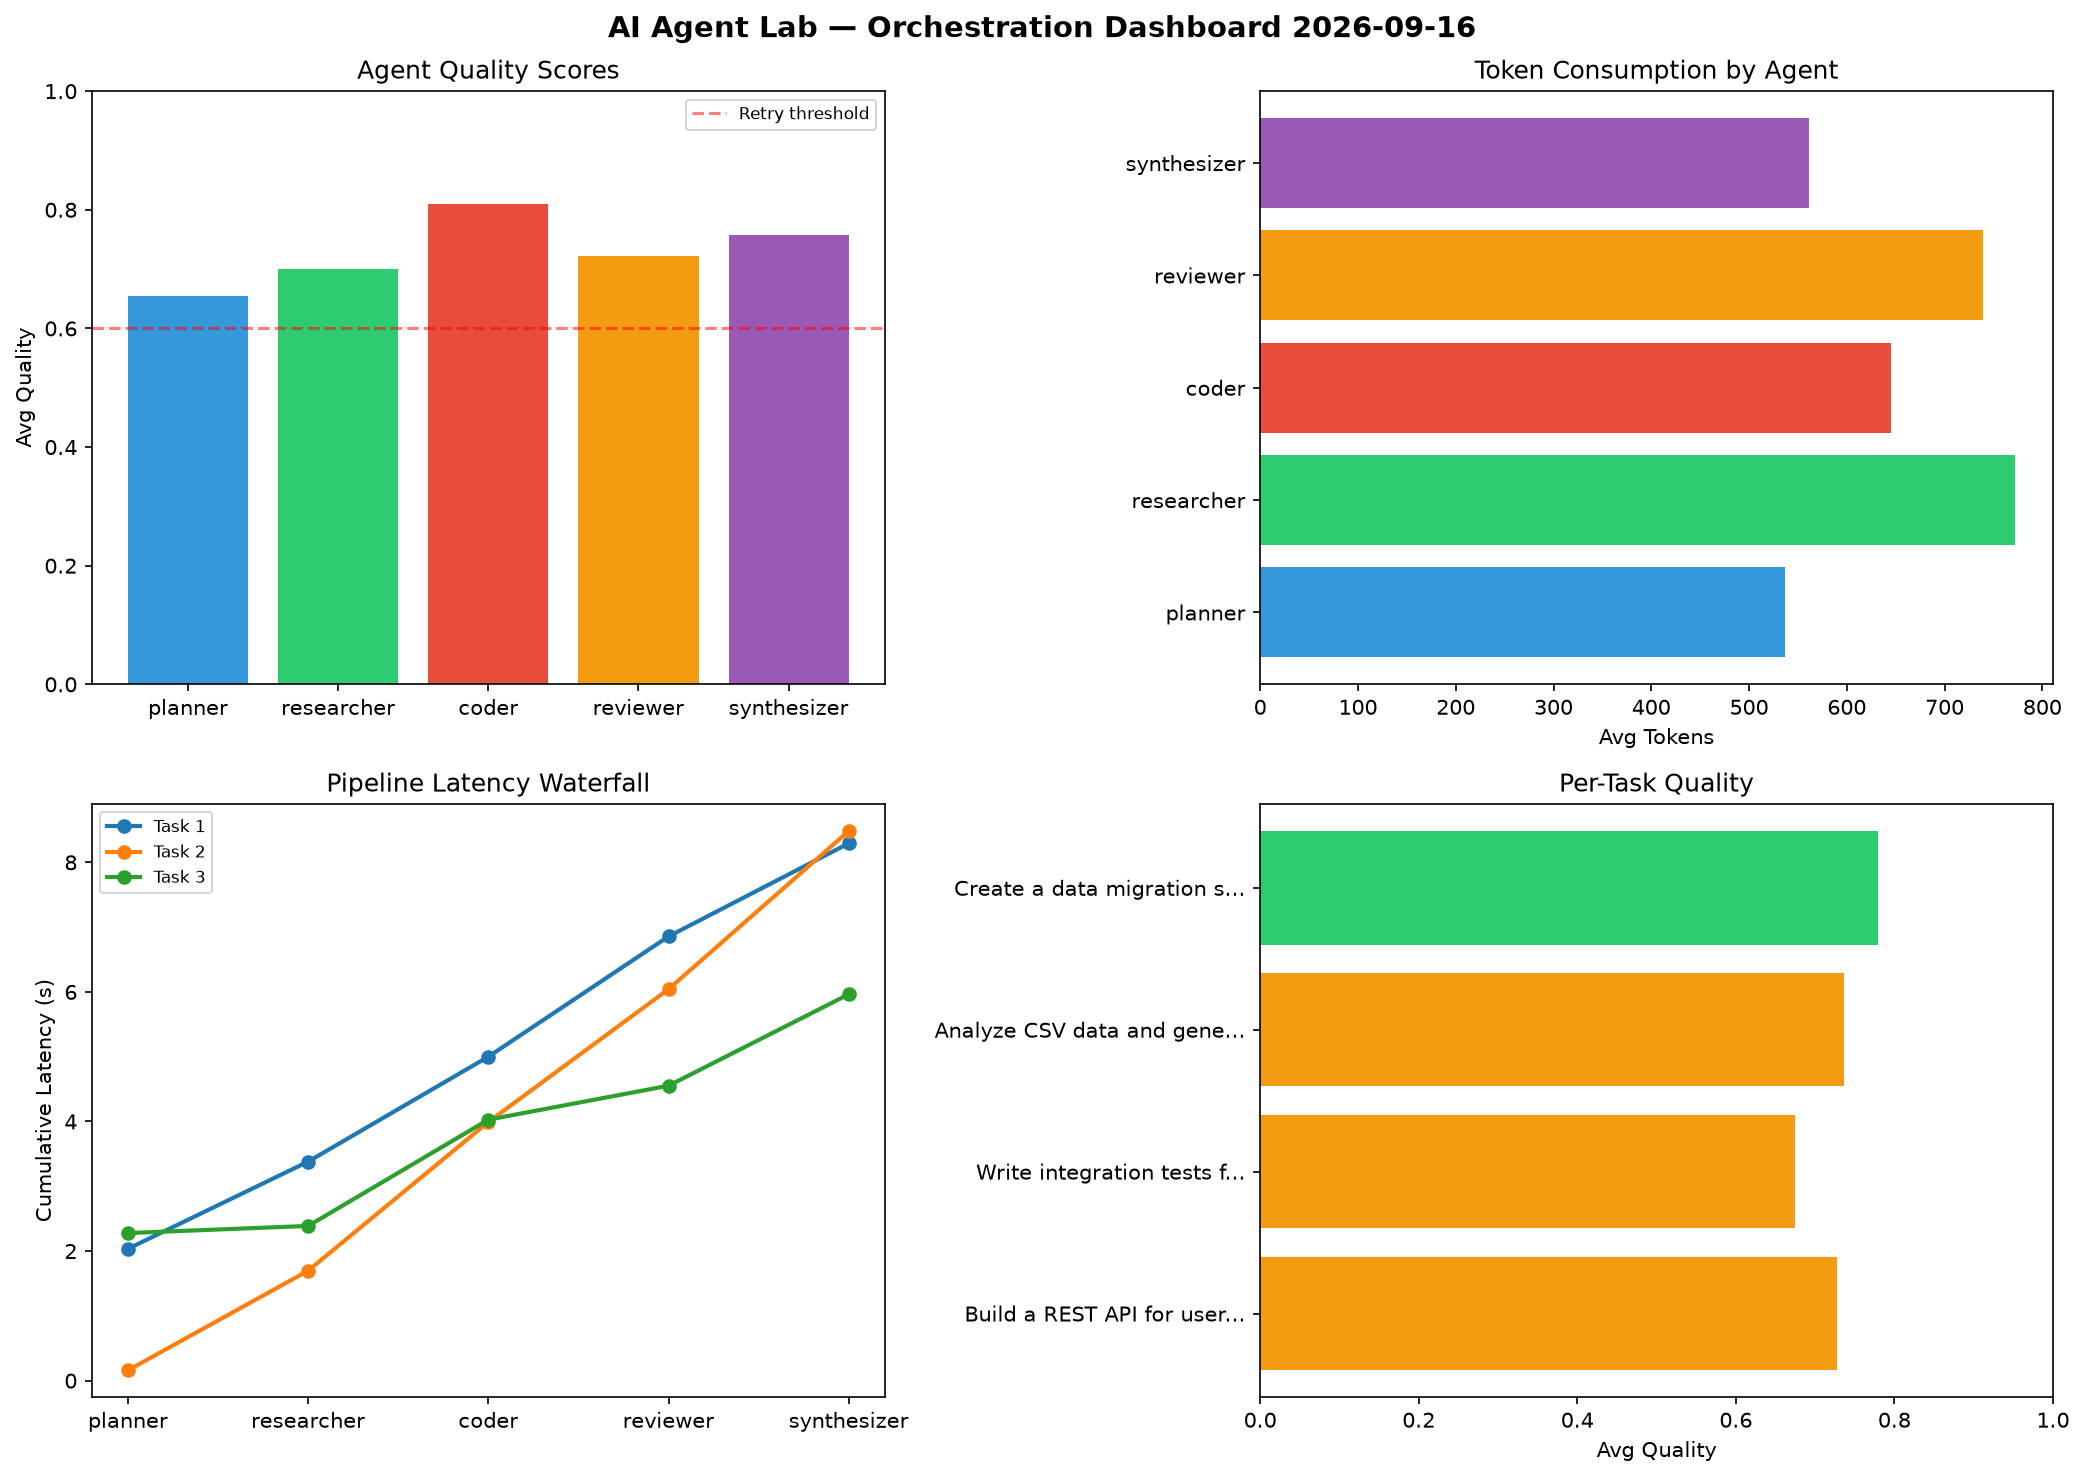
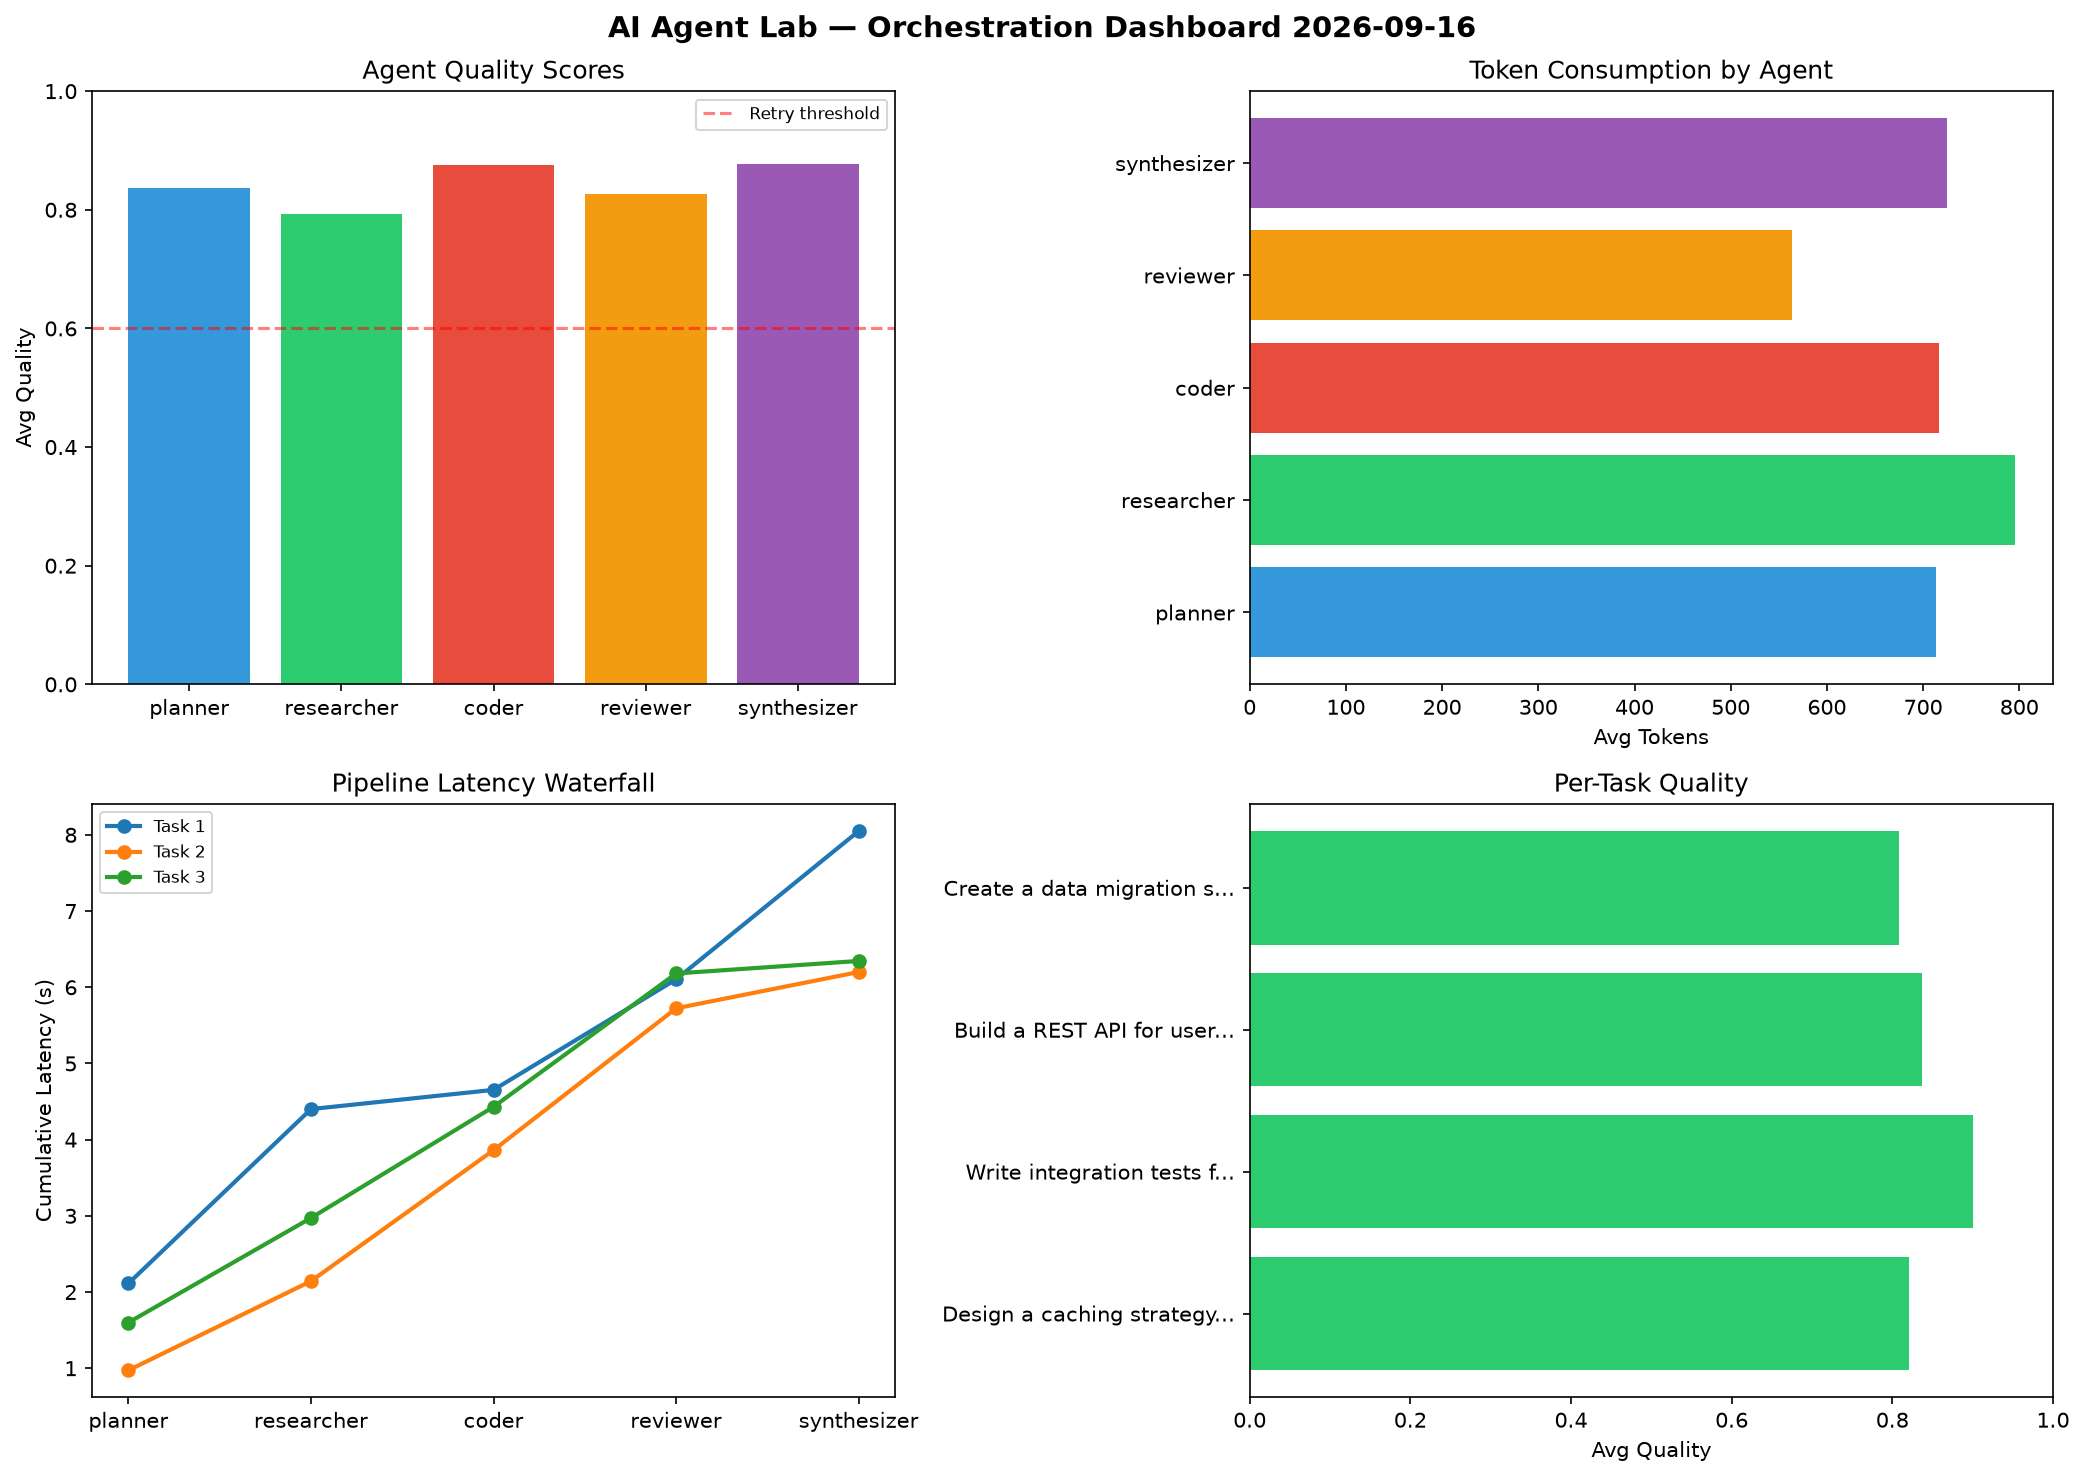
ai-agent-lab: orchestration run 2026-09-16T23:01

diff --git a/logs/2026-09-16.md b/logs/2026-09-16.md
@@ -1,6 +1,6 @@
 # AI Agent Lab — Orchestration Report 2026-09-16
 
-**Run ID:** `e1876d832c` | **Tasks:** 4 | **Avg Quality:** 0.729
+**Run ID:** `6a934ca497` | **Tasks:** 4 | **Avg Quality:** 0.842
 
 ![Dashboard](2026-09-16_dashboard.png)
 
@@ -8,52 +8,52 @@
 
 | Metric | Value |
 |--------|-------|
-| avg_latency | 7.747 |
-| total_tokens | 13016 |
-| avg_quality | 0.729 |
+| avg_latency | 6.561 |
+| total_tokens | 14054 |
+| avg_quality | 0.842 |
 
 ## Delta vs Yesterday
 
 | Metric | Today | Yesterday | Change |
 |--------|-------|-----------|--------|
-| avg_latency | 7.747 | 6.484 | 📈 19.5% |
-| total_tokens | 13016 | 16077 | 📉 -19.0% |
-| avg_quality | 0.729 | 0.769 | 📉 -5.2% |
+| avg_latency | 6.561 | 6.484 | 📈 1.2% |
+| total_tokens | 14054 | 16077 | 📉 -12.6% |
+| avg_quality | 0.842 | 0.769 | 📈 9.5% |
 
 ## Pipeline Results
 
-### Build a REST API for user authentication
+### Design a caching strategy for high-traffic endpoints
 | Agent | Quality | Latency | Tokens | Status |
 |-------|---------|---------|--------|--------|
-| planner | 0.969 | 2.035s | 358 | success |
-| researcher | 0.661 | 1.346s | 332 | success |
-| coder | 0.741 | 1.619s | 927 | success |
-| reviewer | 0.581 | 1.856s | 1006 | needs_retry |
-| synthesizer | 0.684 | 1.437s | 595 | success |
+| planner | 0.962 | 2.113s | 908 | success |
+| researcher | 0.747 | 2.288s | 803 | success |
+| coder | 0.955 | 0.252s | 476 | success |
+| reviewer | 0.659 | 1.451s | 377 | success |
+| synthesizer | 0.784 | 1.946s | 492 | success |
 
 ### Write integration tests for payment processing module
 | Agent | Quality | Latency | Tokens | Status |
 |-------|---------|---------|--------|--------|
-| planner | 0.513 | 0.16s | 1013 | needs_retry |
-| researcher | 0.628 | 1.537s | 1160 | success |
-| coder | 0.749 | 2.295s | 721 | success |
-| reviewer | 0.684 | 2.05s | 724 | success |
-| synthesizer | 0.796 | 2.441s | 721 | success |
+| planner | 0.991 | 0.973s | 636 | success |
+| researcher | 0.827 | 1.17s | 825 | success |
+| coder | 0.834 | 1.719s | 805 | success |
+| reviewer | 0.936 | 1.862s | 1075 | success |
+| synthesizer | 0.918 | 0.476s | 548 | success |
 
-### Analyze CSV data and generate statistical summary
+### Build a REST API for user authentication
 | Agent | Quality | Latency | Tokens | Status |
 |-------|---------|---------|--------|--------|
-| planner | 0.517 | 2.278s | 218 | needs_retry |
-| researcher | 0.617 | 0.11s | 507 | success |
-| coder | 0.844 | 1.64s | 672 | success |
-| reviewer | 0.867 | 0.524s | 822 | success |
-| synthesizer | 0.833 | 1.411s | 494 | success |
+| planner | 0.644 | 1.6s | 388 | success |
+| researcher | 0.949 | 1.372s | 845 | success |
+| coder | 0.882 | 1.459s | 933 | success |
+| reviewer | 0.88 | 1.75s | 459 | success |
+| synthesizer | 0.828 | 0.164s | 910 | success |
 
 ### Create a data migration script for schema v2
 | Agent | Quality | Latency | Tokens | Status |
 |-------|---------|---------|--------|--------|
-| planner | 0.619 | 1.745s | 557 | success |
-| researcher | 0.892 | 2.063s | 1090 | success |
-| coder | 0.908 | 0.883s | 260 | success |
-| reviewer | 0.758 | 1.336s | 405 | success |
-| synthesizer | 0.717 | 2.221s | 434 | success |
+| planner | 0.747 | 0.192s | 920 | success |
+| researcher | 0.649 | 2.057s | 708 | success |
+| coder | 0.833 | 0.453s | 653 | success |
+| reviewer | 0.83 | 1.47s | 343 | success |
+| synthesizer | 0.98 | 1.479s | 950 | success |
